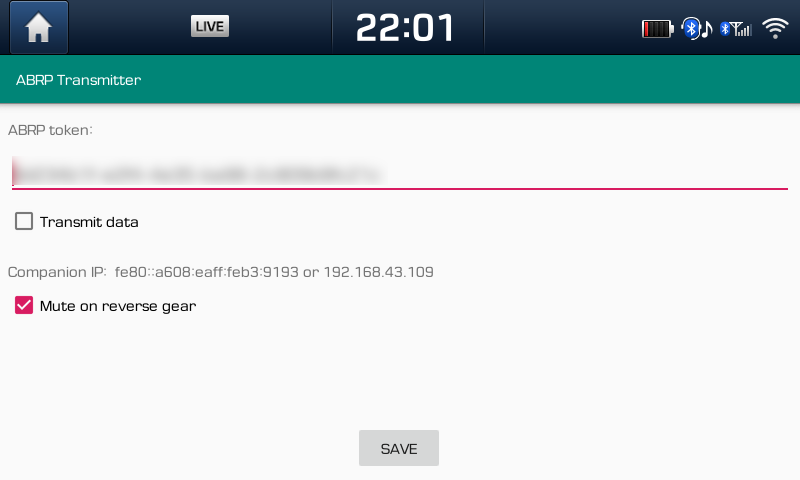
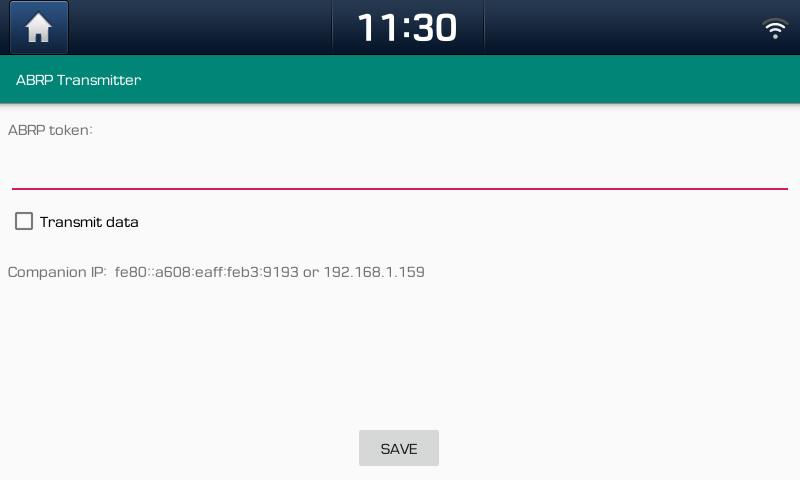
remove mute on reverse
there is an option in the head unit settings to reduce the volume level since software version 170927

diff --git a/app/src/main/java/g4rb4g3/at/abrptransmitter/ABetterRoutePlanner.java b/app/src/main/java/g4rb4g3/at/abrptransmitter/ABetterRoutePlanner.java
@@ -4,7 +4,6 @@ import android.content.Context;
 import android.content.SharedPreferences;
 import android.util.Log;
 
-import com.lge.ivi.IVIMessageManager;
 import com.lge.ivi.carinfo.CarInfoManager;
 import com.lge.ivi.greencar.GreenCarManager;
 import com.lge.ivi.greencar.IBatteryChargeListener;
@@ -28,7 +27,6 @@ import g4rb4g3.at.abrptransmitter.greencar.BatteryChargeListener;
 import g4rb4g3.at.abrptransmitter.greencar.EVPowerDisplayListener;
 import g4rb4g3.at.abrptransmitter.greencar.GreenCarGwEvP06ExtraListener;
 import g4rb4g3.at.abrptransmitter.hvac.HvacTempListener;
-import g4rb4g3.at.abrptransmitter.message.OnEtcStatusChangedEventListener;
 
 public class ABetterRoutePlanner {
   public static final String ABETTERROUTEPLANNER_URL = "https://api.iternio.com/1/tlm/send?";
@@ -83,10 +81,6 @@ public class ABetterRoutePlanner {
       }
     }
   };
-
-  private static Context mContext = null;
-  private static IVIMessageManager mIviMessageManager = null;
-  private static OnEtcStatusChangedEventListener mOnEtcStatusChangedEventListener = null;
 
   static {
     mCarInfoManager = CarInfoManager.getInstance();
@@ -220,28 +214,10 @@ public class ABetterRoutePlanner {
     });
   }
 
-  public static void applyAbrpSettings() {
-    if(mContext == null) {
-      return;
-    }
-    SharedPreferences sp = mContext.getSharedPreferences(MainActivity.PREFERENCES_NAME, Context.MODE_PRIVATE);
+  public static void applyAbrpSettings(Context context) {
+    SharedPreferences sp = context.getSharedPreferences(MainActivity.PREFERENCES_NAME, Context.MODE_PRIVATE);
     mTransmitData = sp.getBoolean(MainActivity.PREFERENCES_TRANSMIT_DATA, false);
     mAbetterrouteplanner_token = sp.getString(MainActivity.PREFERENCES_TOKEN, null);
-  }
-
-  public static void setContext(Context context) {
-    if(mContext == null) {
-      mContext = context;
-
-      //abused as autostart
-      mIviMessageManager = IVIMessageManager.getInstance(context);
-      mOnEtcStatusChangedEventListener = new OnEtcStatusChangedEventListener(context);
-      mIviMessageManager.registerIVIMessageListener(com.lge.ivi.eIVIMessage.ETC_STATUS_CHANGE_EVENT.getID(), mOnEtcStatusChangedEventListener);
-    }
-  }
-
-  public static Context getmContext() {
-    return mContext;
   }
 
   @Override
@@ -252,9 +228,5 @@ public class ABetterRoutePlanner {
     mGreenCarManager.unregister(mGreenCarGwEvP06ExtraListener);
 
     mHvacManager.unRegisterHvacTempListener(mHvacTempListener);
-
-    if(mIviMessageManager != null) {
-      mIviMessageManager.unregisterIVIMessageListener(mOnEtcStatusChangedEventListener);
-    }
   }
 }

diff --git a/app/src/main/java/g4rb4g3/at/abrptransmitter/MainActivity.java b/app/src/main/java/g4rb4g3/at/abrptransmitter/MainActivity.java
@@ -33,8 +33,6 @@ public class MainActivity extends AppCompatActivity {
   public static final String PREFERENCES_NAME = "preferences";
   public static final String PREFERENCES_TOKEN = "abrp_token";
   public static final String PREFERENCES_TRANSMIT_DATA = "transmit_data";
-  public static final String PREFERENCES_MUTE_REVERSE_GEAR = "mute_reverse_gear";
-
 
   private TextView mTvToken;
   private TextView mTvCompanionIp;
@@ -84,9 +82,6 @@ public class MainActivity extends AppCompatActivity {
     final CheckBox cbTrsansmitData = findViewById(R.id.cb_transmit);
     cbTrsansmitData.setChecked(sp.getBoolean(PREFERENCES_TRANSMIT_DATA, false));
 
-    final CheckBox cbMuteRevrseGear = findViewById(R.id.cb_mute_reverse_gear);
-    cbMuteRevrseGear.setChecked(sp.getBoolean(PREFERENCES_MUTE_REVERSE_GEAR, false));
-
     Button btSave = findViewById(R.id.save);
     btSave.setOnClickListener(new View.OnClickListener() {
       @Override
@@ -94,7 +89,6 @@ public class MainActivity extends AppCompatActivity {
         SharedPreferences.Editor sped = sp.edit();
         sped.putString(PREFERENCES_TOKEN, mTvToken.getText().toString());
         sped.putBoolean(PREFERENCES_TRANSMIT_DATA, cbTrsansmitData.isChecked());
-        sped.putBoolean(PREFERENCES_MUTE_REVERSE_GEAR, cbMuteRevrseGear.isChecked());
         sped.commit();
 
         Toast.makeText(getApplicationContext(), getText(R.string.saved), Toast.LENGTH_LONG).show();

diff --git a/app/src/main/java/g4rb4g3/at/abrptransmitter/receiver/NaviGpsChangedReceiver.java b/app/src/main/java/g4rb4g3/at/abrptransmitter/receiver/NaviGpsChangedReceiver.java
@@ -19,8 +19,6 @@ public class NaviGpsChangedReceiver extends BroadcastReceiver {
     double lat = intent.getDoubleExtra(EXTRA_LAT, 0);
     double lon = intent.getDoubleExtra(EXTRA_LON, 0);
 
-    ABetterRoutePlanner.setContext(context);
-
     if(mLatLonHolder.equals(lat, lon)) {
       return;
     }
@@ -28,7 +26,7 @@ public class NaviGpsChangedReceiver extends BroadcastReceiver {
 
     double alt = intent.getDoubleExtra(EXTRA_ALT, 0);
 
-    ABetterRoutePlanner.applyAbrpSettings();
+    ABetterRoutePlanner.applyAbrpSettings(context);
     ABetterRoutePlanner.updateGps(lat, lon, alt);
   }
 }
